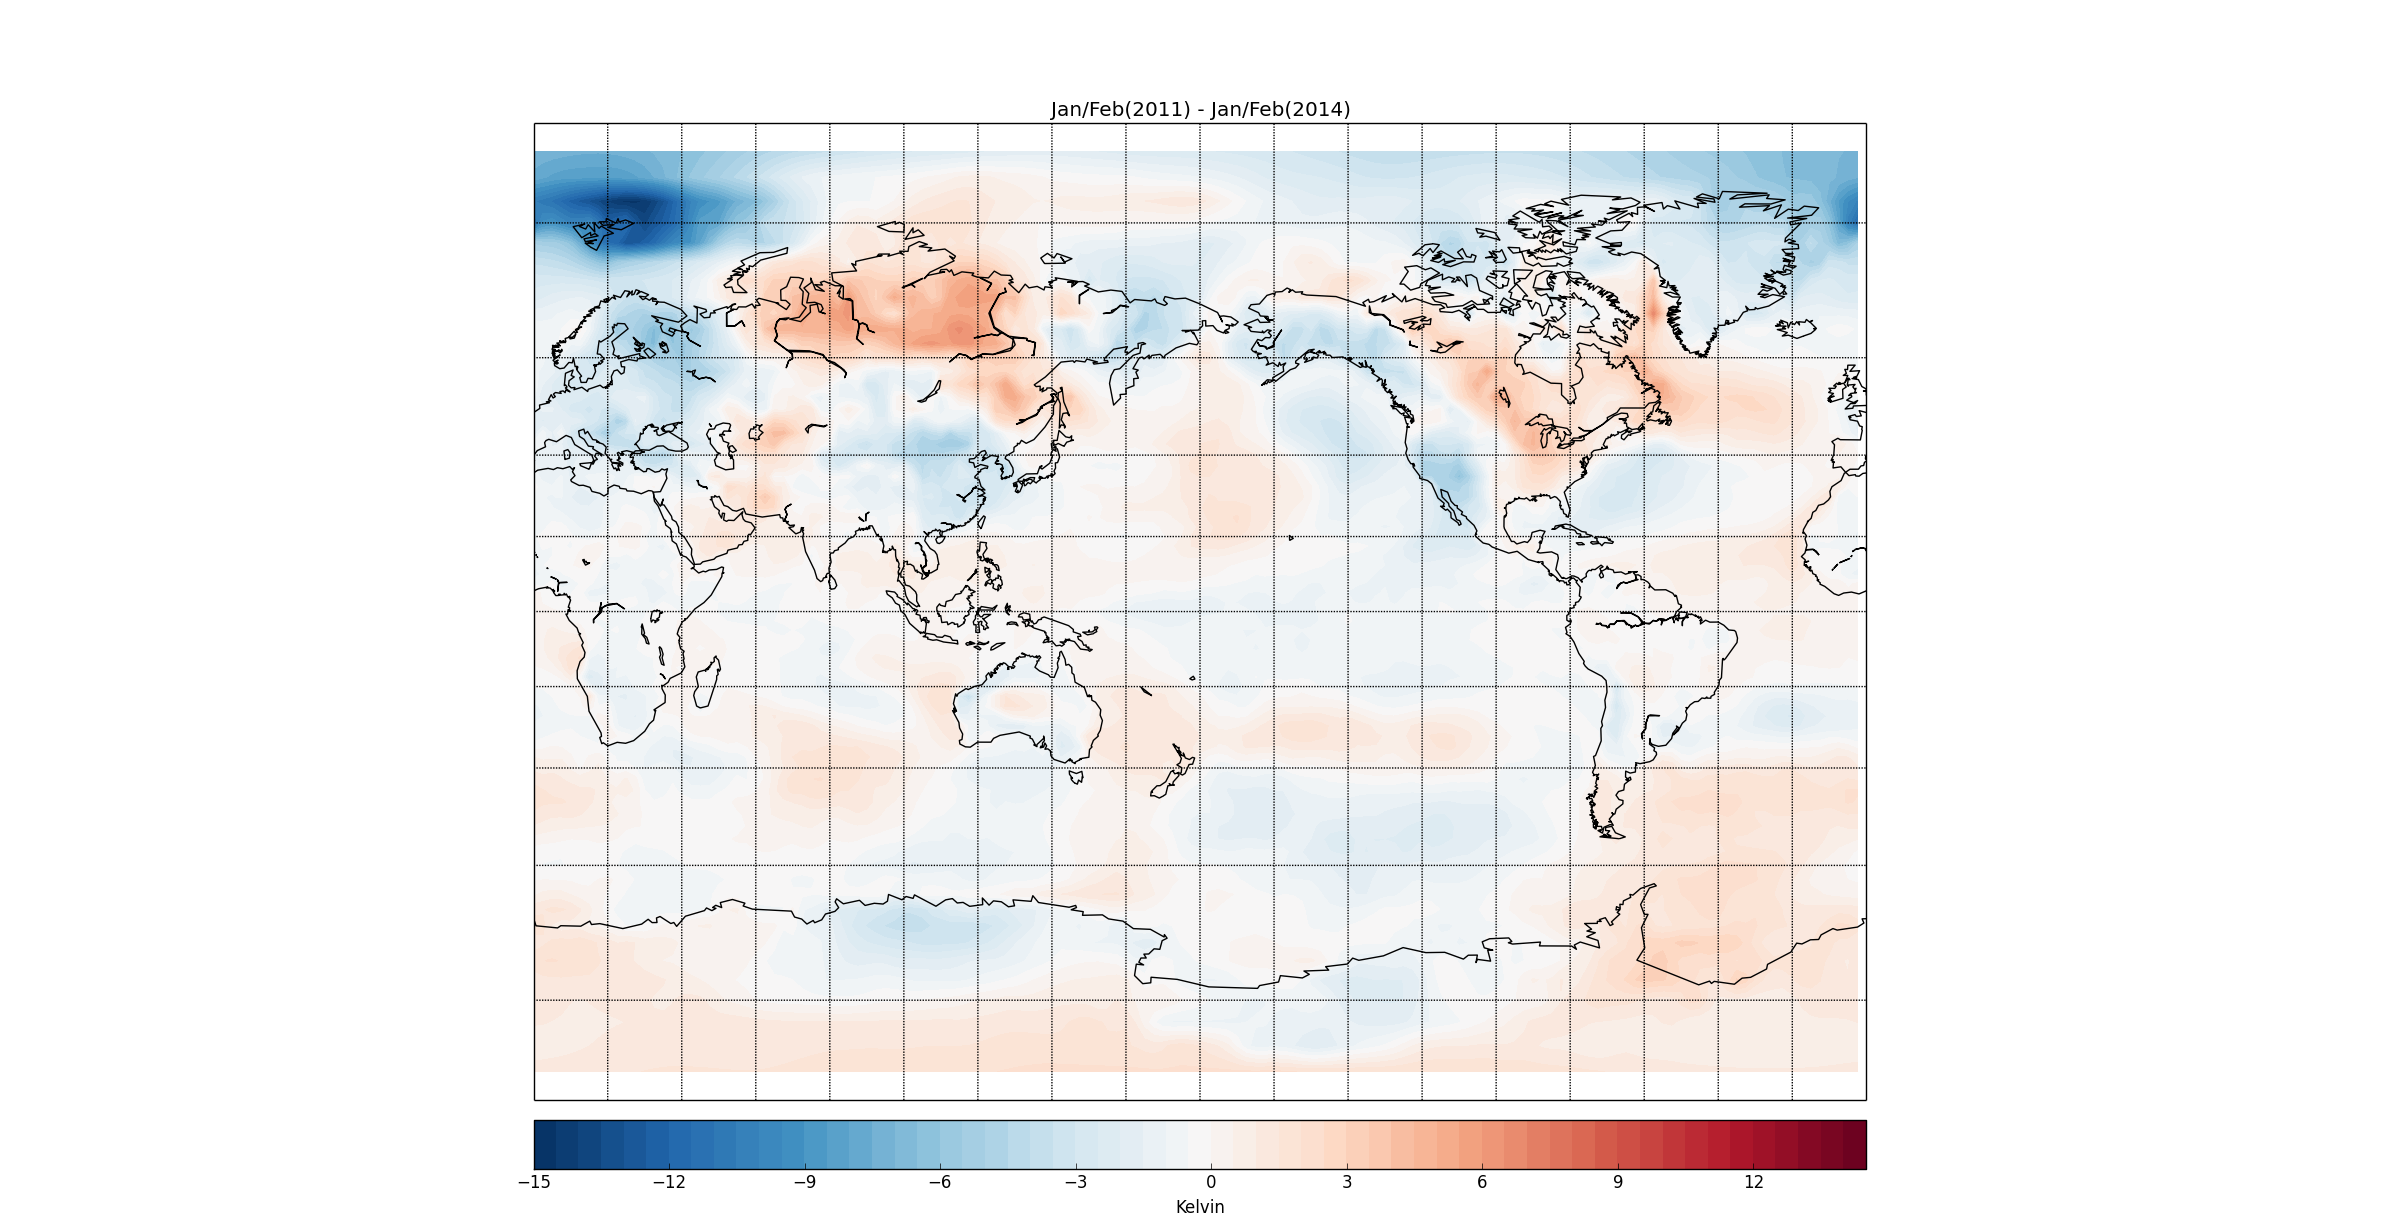
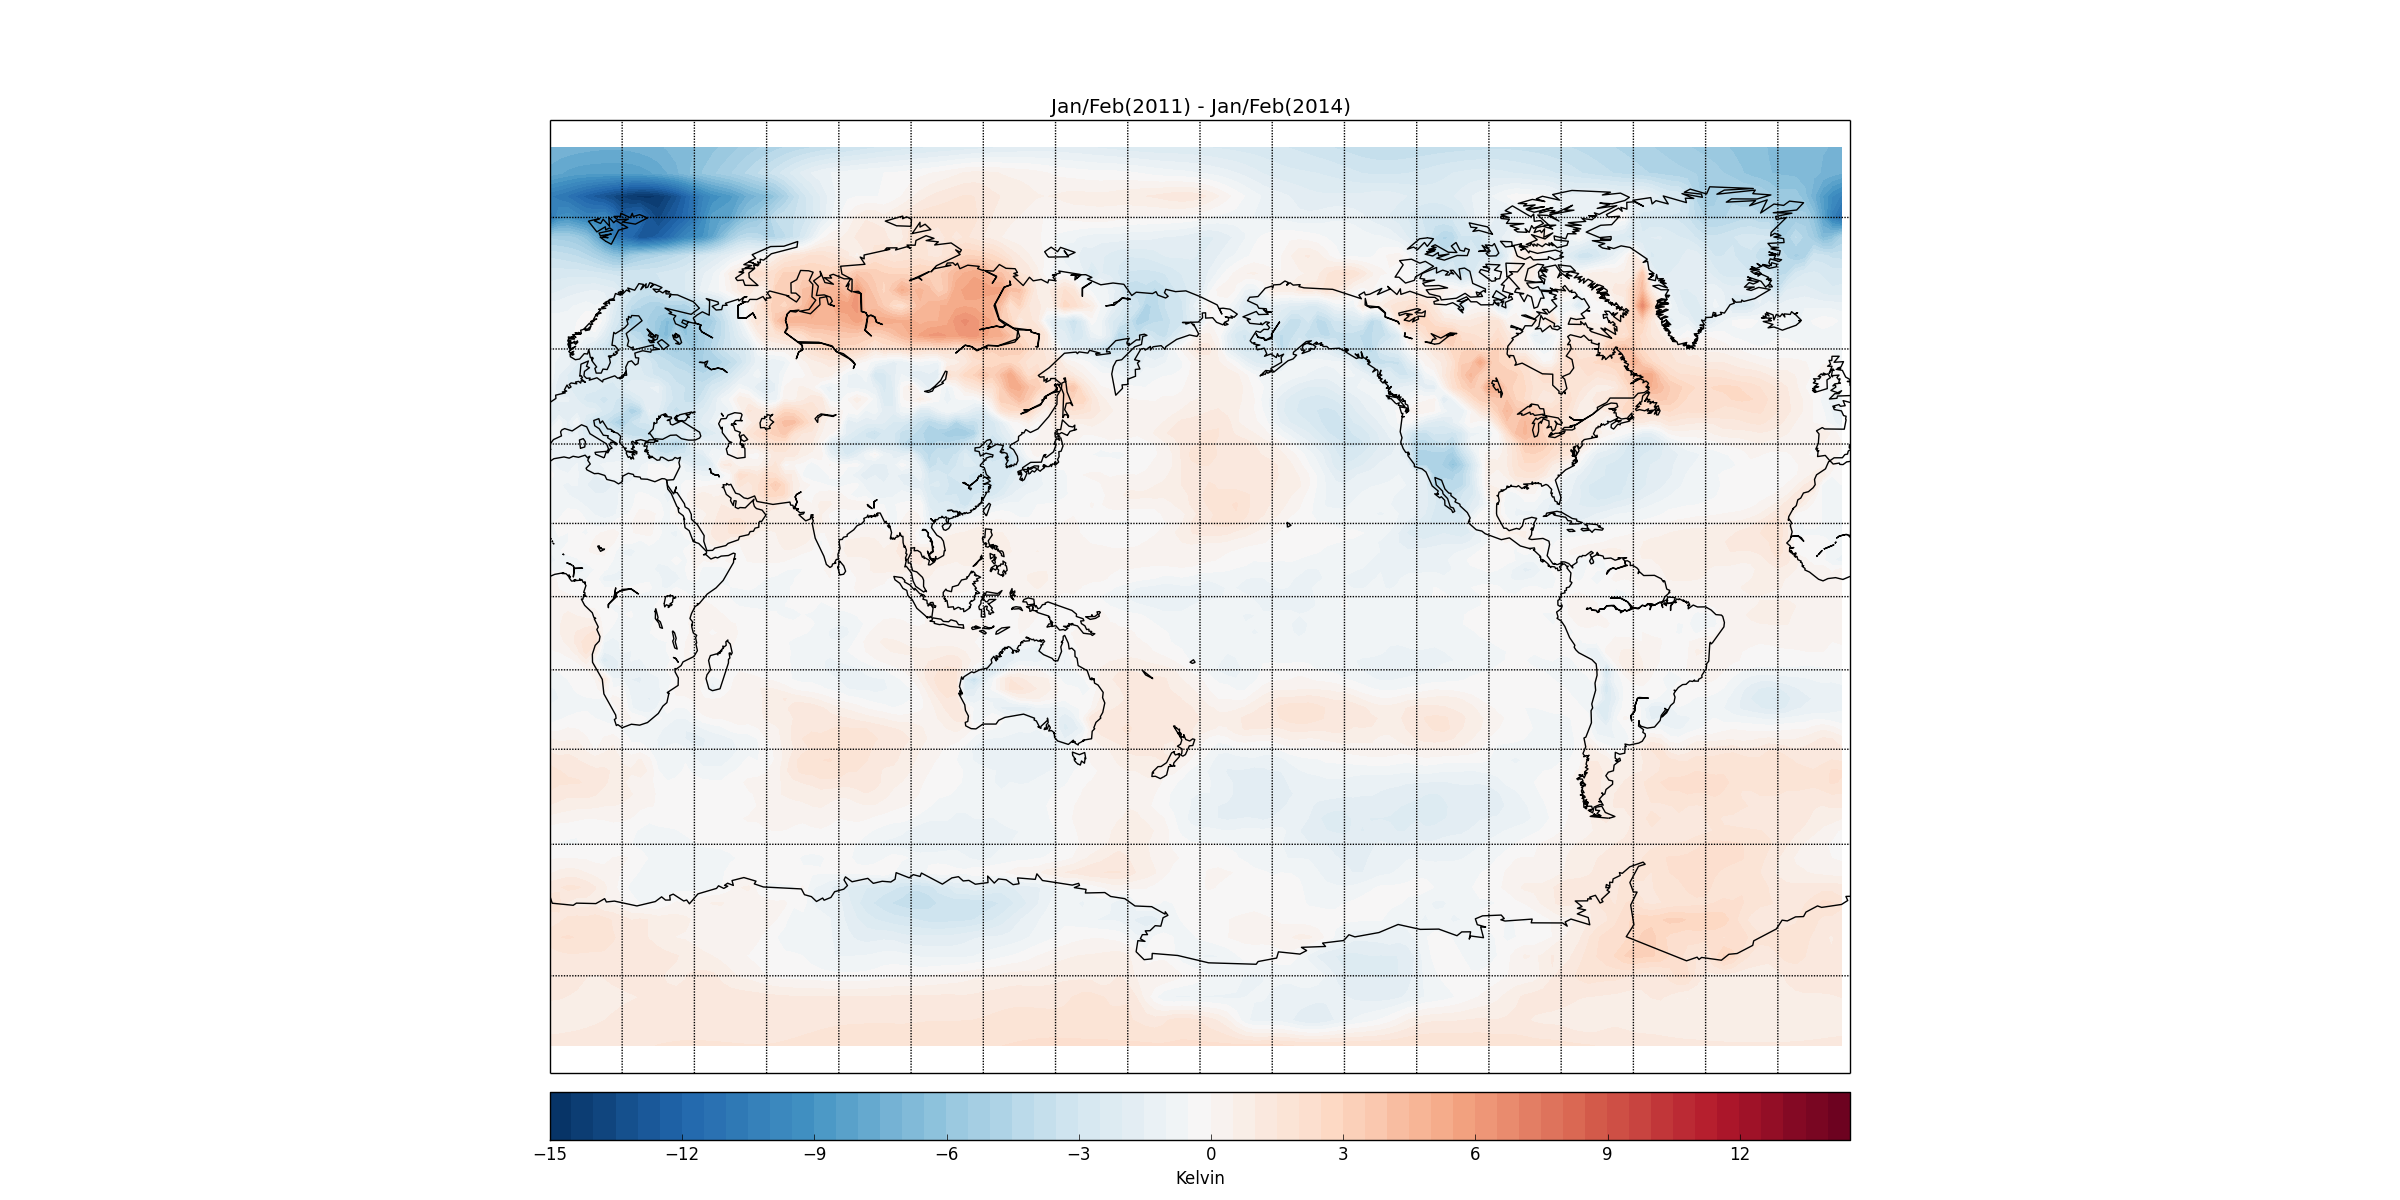
added global average temp script

diff --git a/globalavg.py b/globalavg.py
@@ -1,0 +1,73 @@
+#Charles Smith
+#Graphs global average temperature from 1979-2013
+#Uses data from 
+#
+#Data obtained from
+#http://www.esrl.noaa.gov/psd/thredds/catalog/Datasets/ncep/catalog.html
+###################################################################
+from glob import glob
+from netCDF4 import Dataset
+import numpy as np
+import matplotlib.pyplot as plt
+from mpl_toolkits.basemap import Basemap
+import time
+"""Some of the plotting code is directly from
+http://matplotlib.org/basemap/users/examples.html"""
+def plotMap():
+    fig=plt.figure(figsize=(24,12))
+    ax = fig.add_axes([0.05,0.05,0.9,0.85])
+    m = Basemap(llcrnrlon=0,llcrnrlat=-90,urcrnrlon=360,urcrnrlat=90,projection='mill')
+    m.drawmapboundary(fill_color='0.3')
+    mlons, mlats = np.meshgrid(lons,lats)
+    clevs = np.arange(230,305,3)
+    colorfilled = m.contourf(mlons,mlats,avgTempPeriod,clevs,cmap=plt.cm.jet,latlon=True)
+    m.drawcoastlines()
+    cb = m.colorbar(colorfilled,"bottom", size="5%", pad="2%")
+    ax.set_title("Global Average Temp 1979 - 2013")
+    plt.savefig("globalavg.png", pad_inches=0.0, bbox_inches="tight")
+    plt.clf()
+
+files = glob("C:/Python32/climatethings/*.nc")
+nc = Dataset("C:/Python32/climatethings/air.sfc.2011.nc")
+lats = nc.variables["lat"]
+lons = nc.variables["lon"]
+files = files[:len(files)-1]
+
+avgTempPeriod = []
+for i in range(0,len(lats)):
+	avgTempPeriod.append([0.0] * len(lons))
+avgTempPeriod = np.array(avgTempPeriod)
+#Could do this in parallel if we had the CPUs.
+#Get the sum of all the temperatures for a lat lon location.
+nlats = len(lats)
+nlons = len(lons)
+start = time.clock()
+for i in files:
+    nc = Dataset(i)
+    tempK = np.array(nc.variables['air'])
+    avgTempsYr = []
+    #Empty avg year.
+    for i in range(0,nlats):
+            avgTempsYr.append([0.0] * nlons)
+    avgTempsYr = np.array(avgTempsYr)
+    for day in range(0,len(tempK)):
+        for lat in range(0, nlats):
+            for lon in range(0, nlons):
+                avgTempsYr[lat][lon] += tempK[day][lat][lon]
+    #average for the Year, put in in the period, 1976 -2013 for now.
+    for lat in range(0,nlats):
+        for lon in range(0, nlons):
+            avgTempPeriod[lat][lon] += avgTempsYr[lat][lon]/len(tempK)
+
+
+total = time.clock() - start
+print("total time %f" % total)
+#now Average Period
+for lat in range(0,len(lats)):
+    for lon in range(0, len(lons)):
+        avgTempPeriod[lat][lon] = avgTempPeriod[lat][lon]/len(files)
+
+plotMap()
+            
+            
+    

diff --git a/climatediff.py b/climatediff.py
@@ -31,7 +31,7 @@ nc14 = Dataset(os.path.realpath("./") +"/air.sfc.2014.nc")
 
 #declare world basemap
 m = Basemap(llcrnrlon=0,llcrnrlat=-90,urcrnrlon=360,urcrnrlat=90,projection='mill')
-fig=plt.figure(figsize=(8,4.5))
+fig=plt.figure(figsize=(24,12))
 ax = fig.add_axes([0.05,0.05,0.9,0.85])
 #same for both years
 lats = nc11.variables["lat"]
@@ -74,3 +74,5 @@ m.drawmeridians(meridians)
 cb = m.colorbar(colorfilled, "bottom", "5%", pad="2%")
 cb.set_label("Kelvin")
 ax.set_title("Jan/Feb(2011) - Jan/Feb(2014)")
+plt.savefig("figure.png", pad_inches=0.0, bbox_inches="tight")
+plt.clf()
